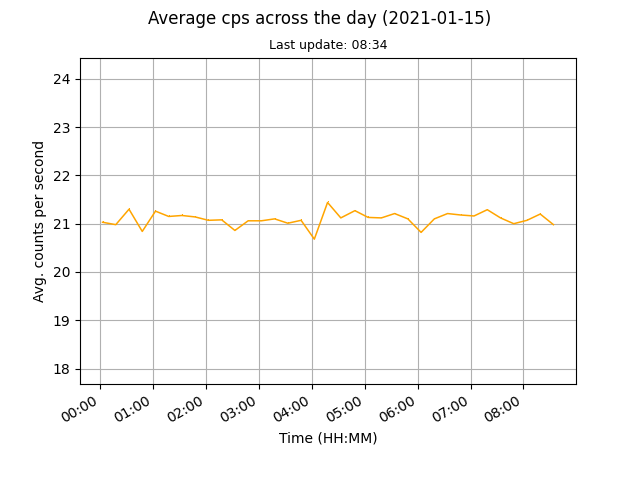
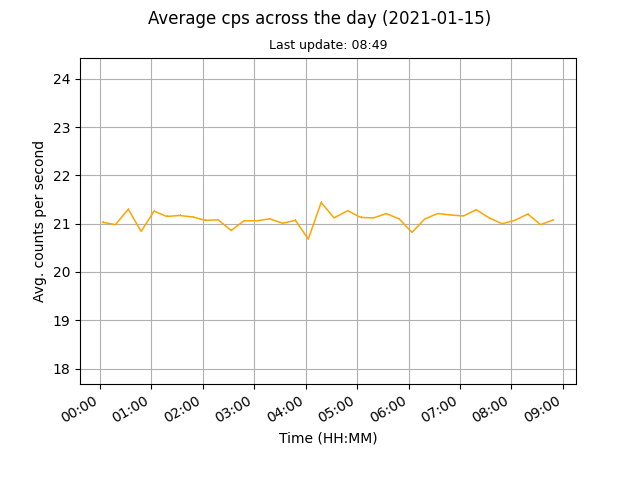
auto data update

diff --git a/docs/index.html b/docs/index.html
@@ -45,8 +45,8 @@
 	
 	<br>
 	
-	<p>Current counts per second (cps): 20.98</p>
-	<p>Last update: 2021-01-15, 08:34</p>
+	<p>Current counts per second (cps): 21.08</p>
+	<p>Last update: 2021-01-15, 08:50</p>
 
 	<p><a href="images/monthly.png"><img src="images/monthly.png" alt="Mothly avg cps data"></a><a href="images/daily.png"><img src="images/daily.png" alt="Daily avg cps data"></a></p>
 	
